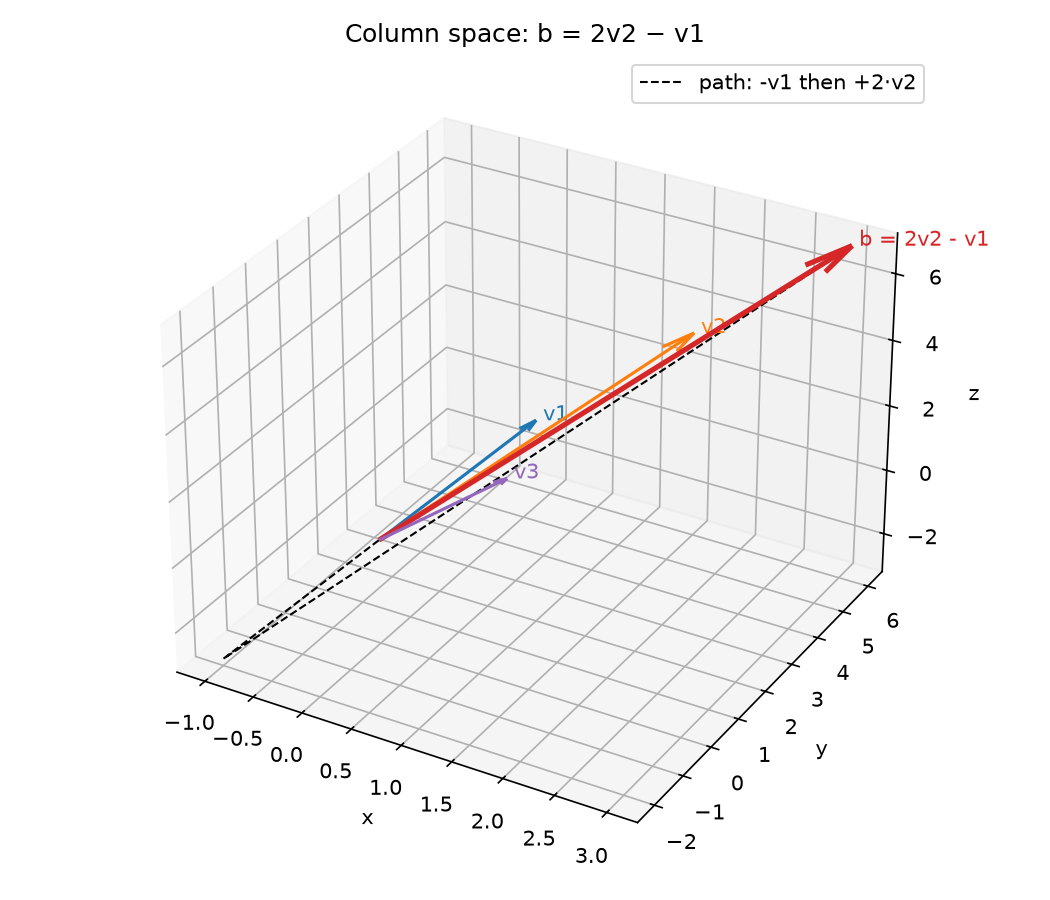
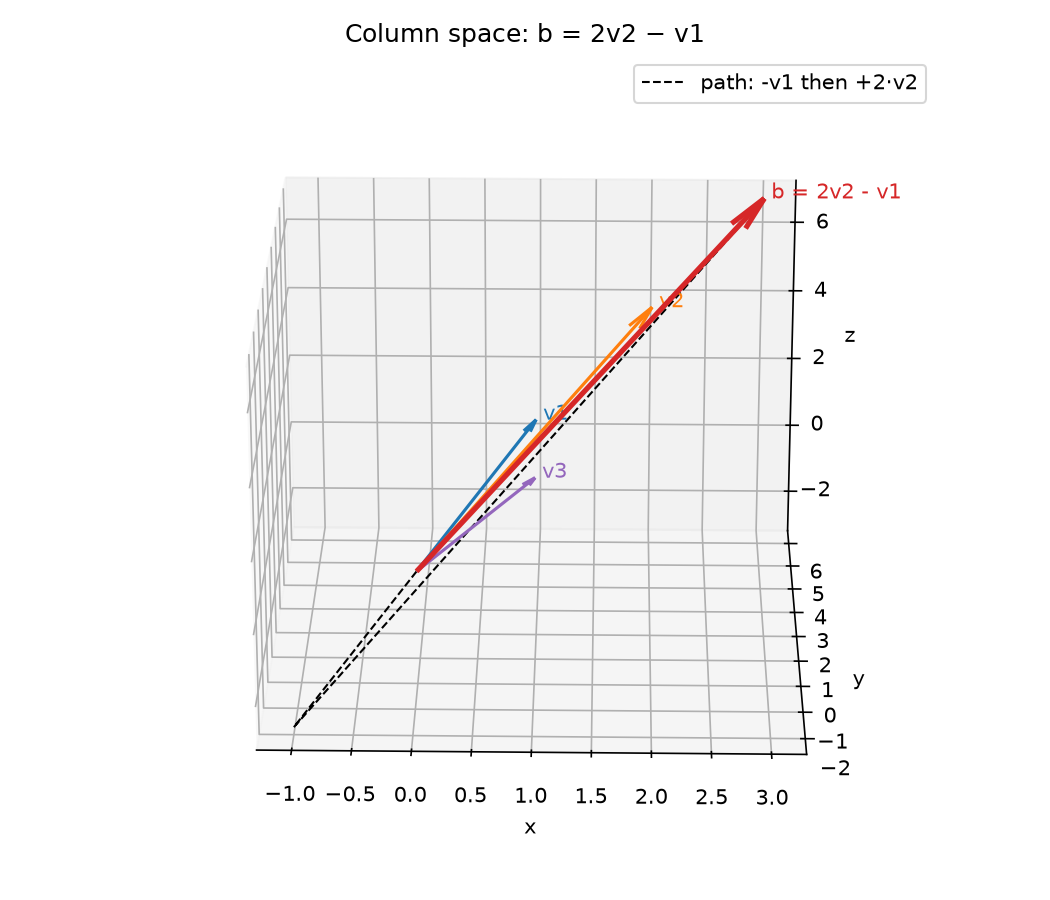
seminar

diff --git a/Seminar/columnspace.py b/Seminar/columnspace.py
@@ -15,7 +15,7 @@ print("A =\n", A)
 print("rank =", np.linalg.matrix_rank(A))
 print("Is b in Col(A)?", in_column_space(A, b))
 
-x = np.array([-1., 2., 0.])              # solution from the slide
+x = np.array([-1, 2, 0])              # solution from the slide
 print("A @ [-1, 2, 0] =", A @ x, "-> equals b:", np.allclose(A @ x, b))
 print("2*v2 - v1      =", 2 * v2 - v1)
 print("np.linalg.solve =", np.linalg.solve(A, b))
@@ -24,6 +24,7 @@ print("det(A) = %.1f -> Col(A) is all of R^3, so every b is solvable." % np.lina
 fig = plt.figure(figsize=(7, 6))
 ax = fig.add_subplot(projection="3d")
 O = np.zeros(3)
+
 for vec, col, name in [(v1, "tab:blue", "v1"), (v2, "tab:orange", "v2"), (v3, "tab:purple", "v3")]:
     ax.quiver(*O, *vec, color=col, arrow_length_ratio=0.08)
     ax.text(*vec, " " + name, color=col)
@@ -32,6 +33,7 @@ ax.text(*b, " b = 2v2 - v1", color="tab:red")
 ax.plot(*np.column_stack([O, -v1, -v1 + 2 * v2]), "k--", lw=1, label="path: -v1 then +2·v2")
 ax.set(xlabel="x", ylabel="y", zlabel="z", title="Column space: b = 2v2 − v1")
 ax.legend()
+ax.view_init(elev=23, azim=-89)
 plt.tight_layout()
 plt.savefig("column_space.png", dpi=150)
 plt.show()

diff --git a/Seminar/Nullspace.py b/Seminar/Nullspace.py
@@ -3,9 +3,8 @@ import matplotlib.pyplot as plt
 
 def null_space(A, tol=1e-10):
     _, s, Vt = np.linalg.svd(A)
-    r = int(np.sum(s > tol))
-    return Vt[r:].T# columns span N(A)
-
+    rank = int(np.sum(s > tol))
+    return Vt[rank:].T# columns span N(A)
 
 A = np.array([[1, 2, 1],
               [2, 3, 1],
@@ -31,7 +30,7 @@ ax = fig.add_subplot(projection="3d")
 ax.plot(*np.outer(direction, np.array([-3, 3])), color="tab:red", lw=3,
         label="N(A) = Span(1, −1, 1)")
 ax.plot_surface(*plane, alpha=0.3, color="tab:blue")
-ax.plot([], [], color="tab:blue", lw=6, alpha=0.4, label="row space (⊥ to N(A))")
+ax.plot([], [], color="tab:blue", lw=6, alpha=0.4, label="row space/Rank(A) = 2")
 ax.set(xlabel="x", ylabel="y", zlabel="z", title="Null space: all x with Ax = 0")
 ax.legend(loc="upper left")
 plt.tight_layout()
